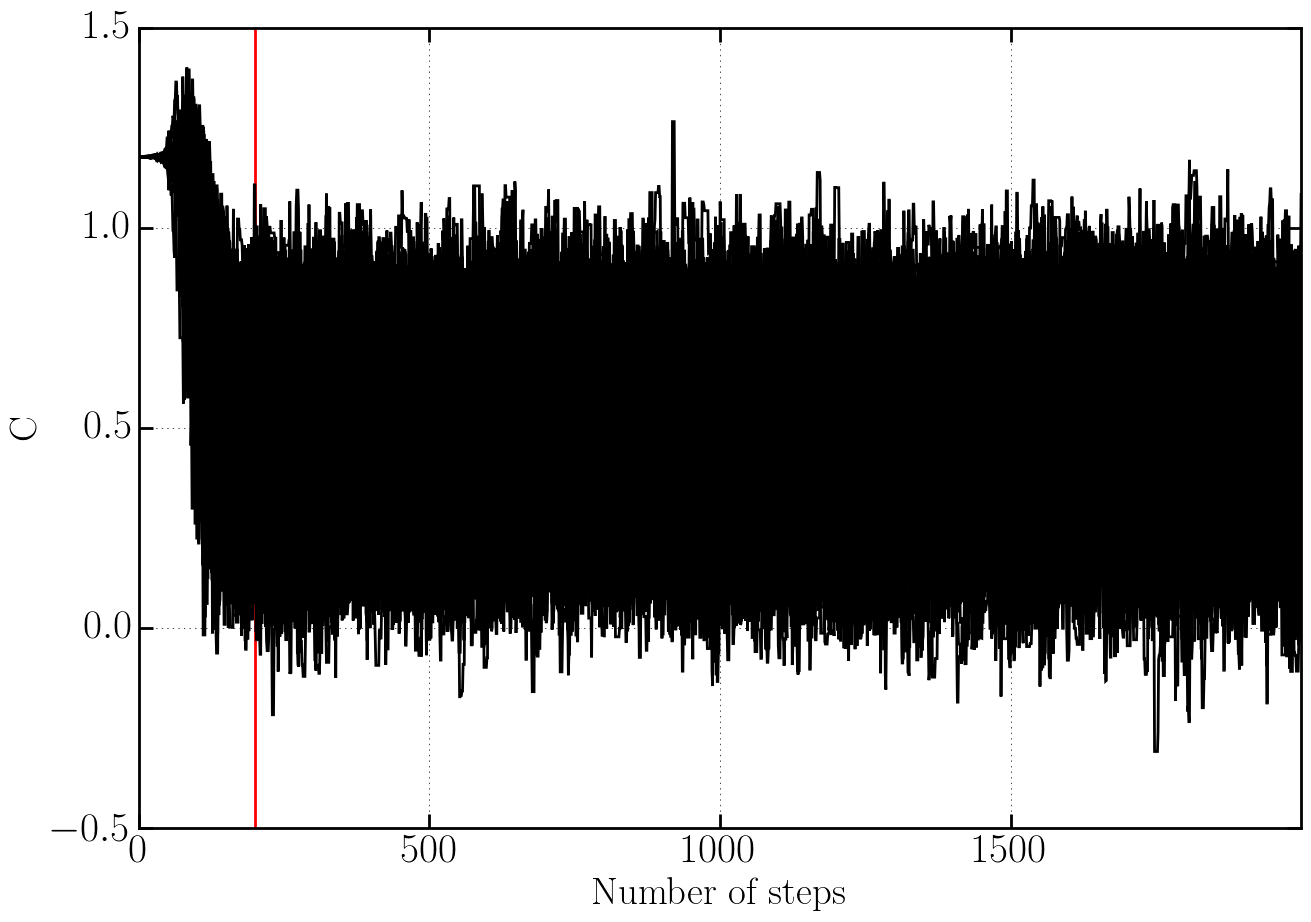
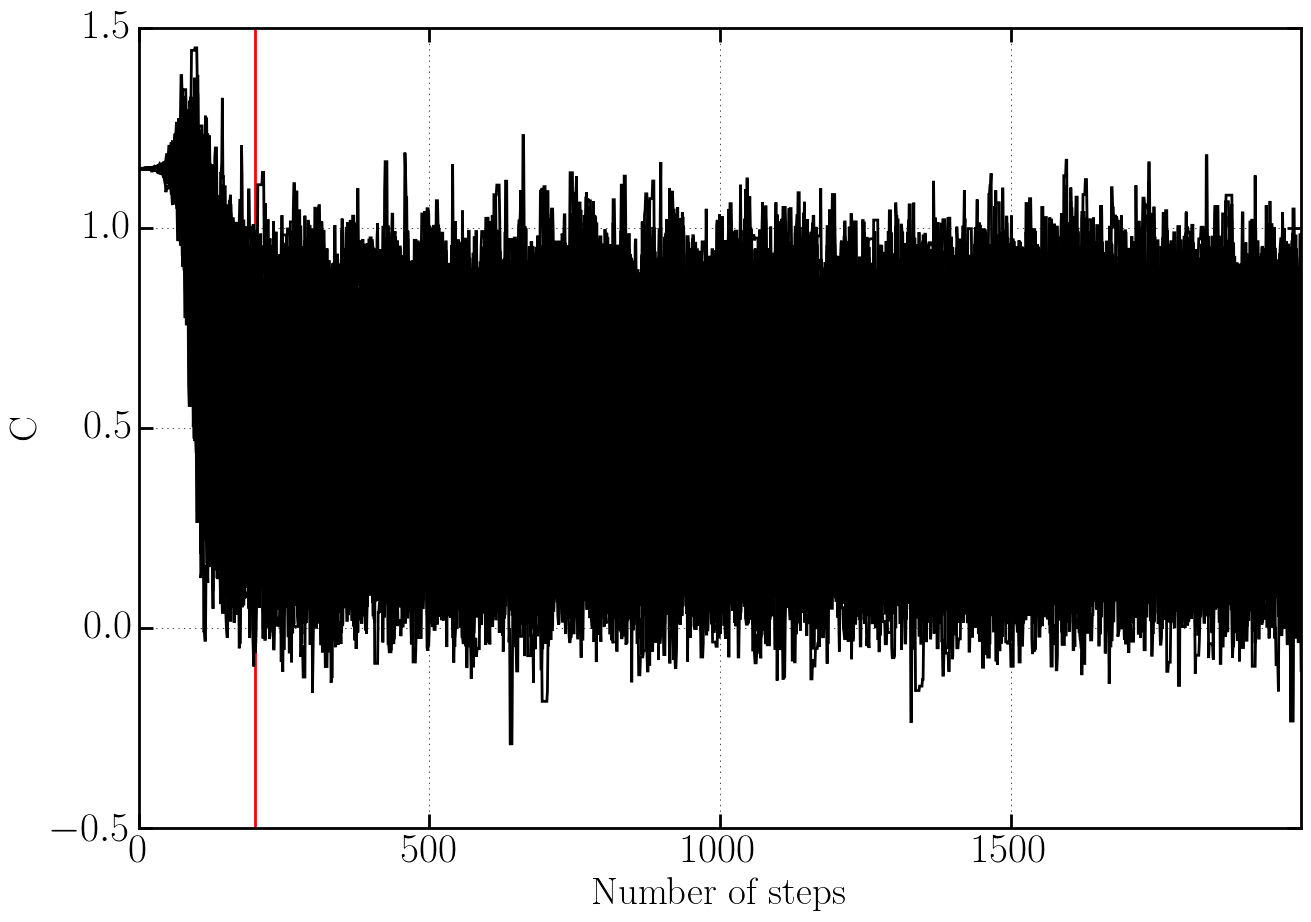
redone analysis for 611-612 95GHzXpol and 150GHzXYpol

Changed region(s): [[0.0915, 0.0607, 1.0, 0.577], [0.1526, 0.6074, 1.0, 0.82]]

diff --git a/analysis/FTSanalysisForPython3.py b/analysis/FTSanalysisForPython3.py
@@ -29,8 +29,8 @@ def scan_analysis(dirpath, etalonlen, frequency):
 if __name__=='__main__':
     topdir = '../FTS data/'
     plotdir = 'plots/'
-    scandirs = ['611-612 95GHz Xpol']
-    freqs = [95]
+    scandirs = ['611-612 150GHz Xpol','611-612 150GHz Ypol']
+    freqs = [150,150]
     etalonlen = 2.625*25.4
 
     for i, scandir in enumerate(scandirs):
